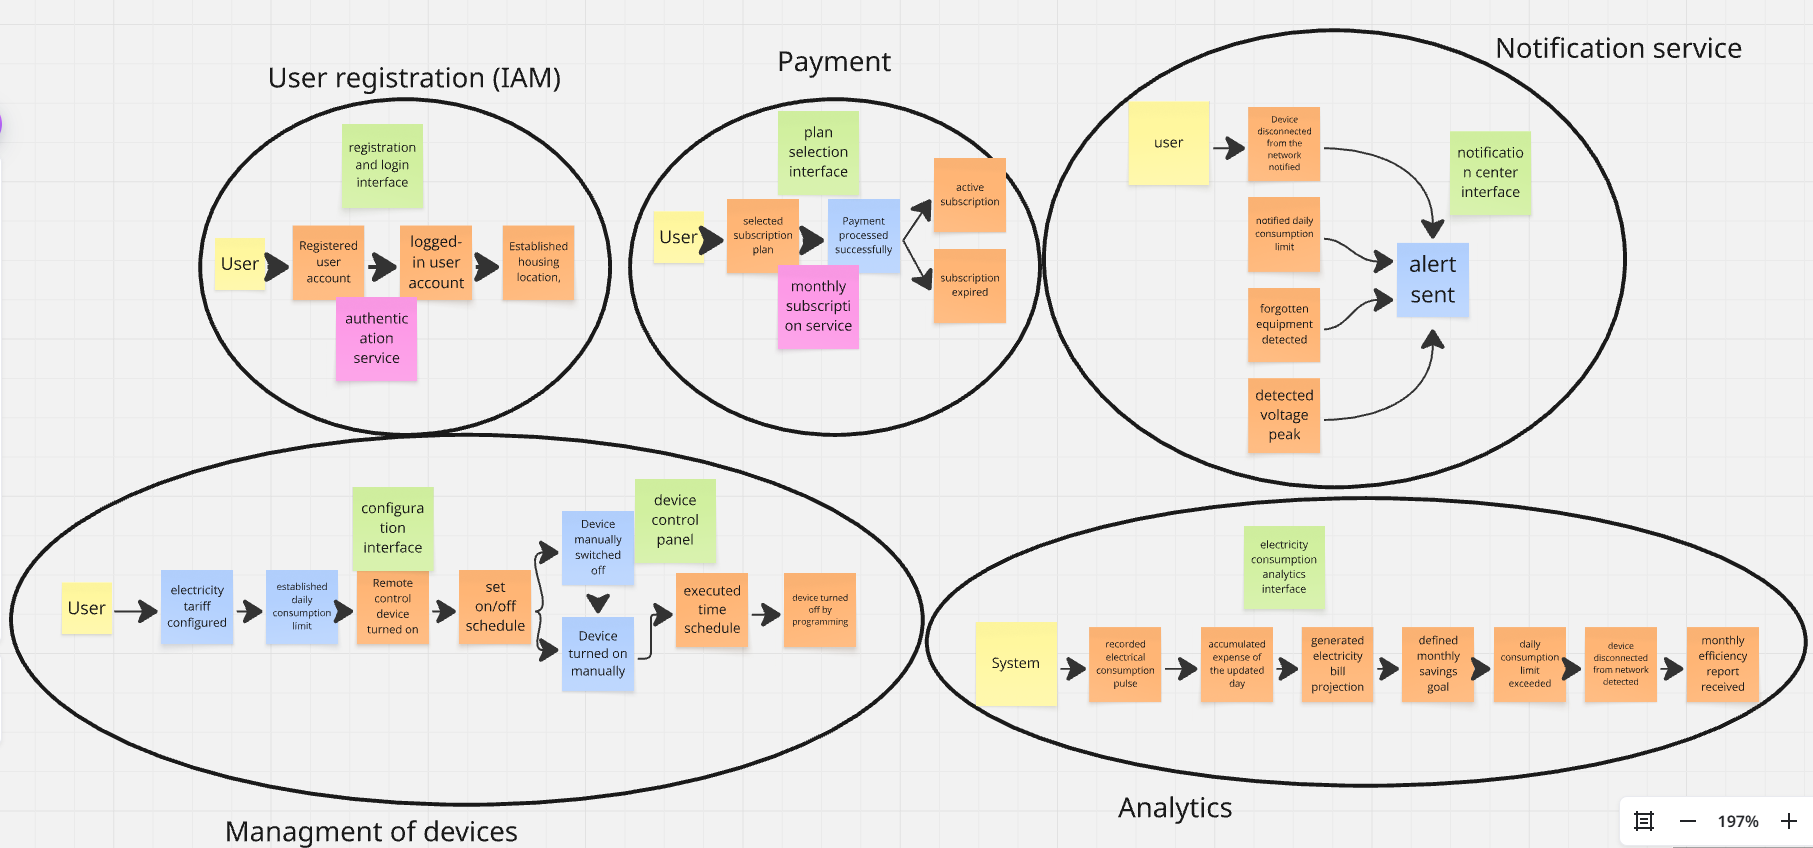
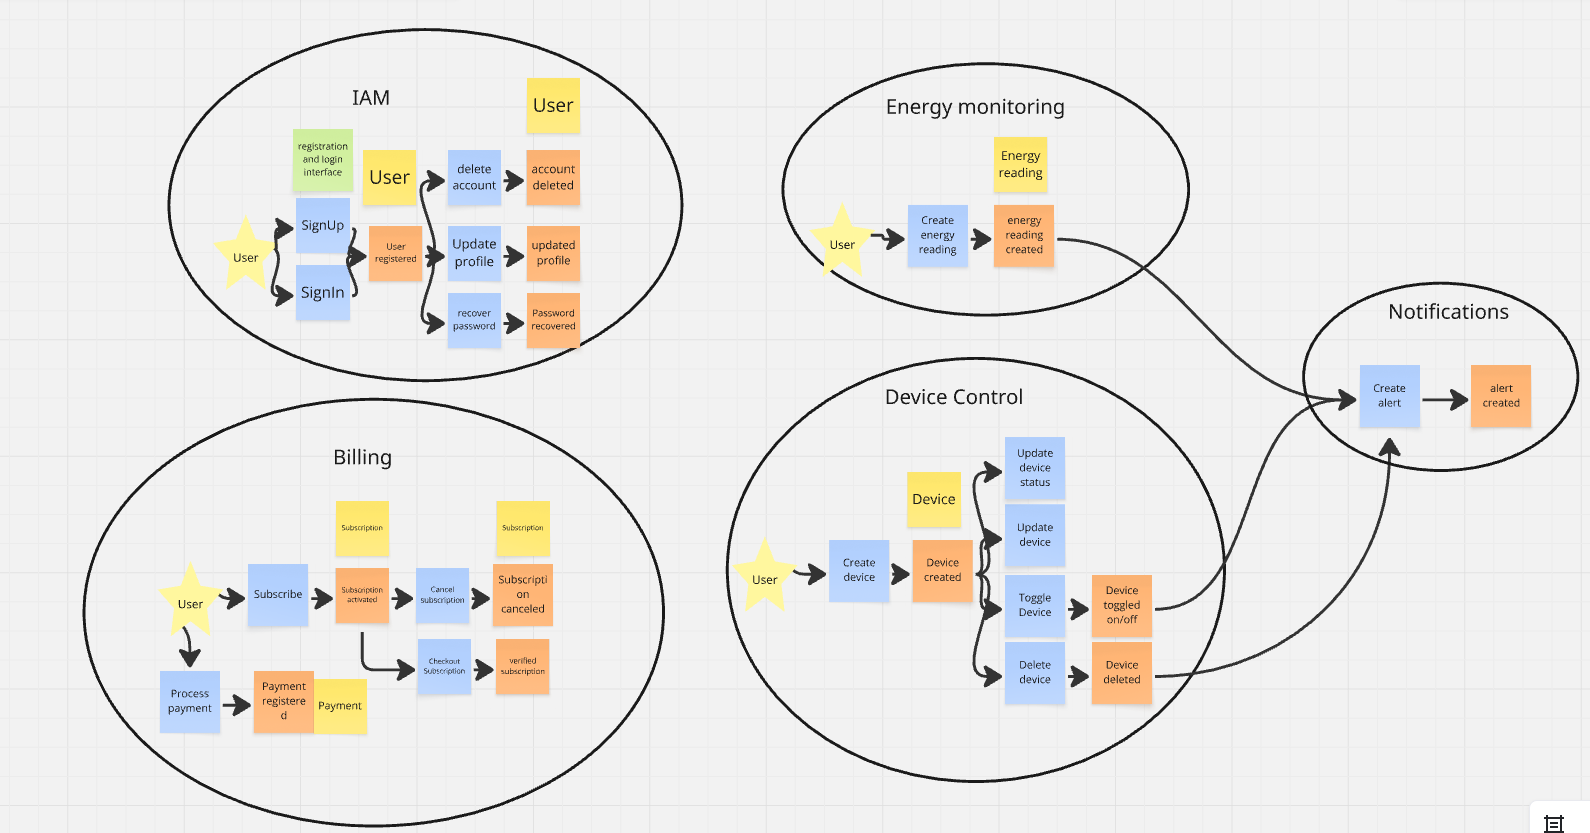
Update event storming images

diff --git a/README.md b/README.md
@@ -1346,6 +1346,26 @@ User goal(Segmento 2): Mantener un cierre ordenado y seguro del local.<br><br>
 
 <img src="assets/designLevelEventStorming.png">
 
+#### Bounded context Billing
+
+<img src="assets/designLevelEventStorming-Billing.png">
+
+#### Bounded context IAM
+
+<img src="assets/designLevelEventStorming-IAM.png">
+
+#### Bounded context Notifications
+
+<img src="assets/designLevelEventStorming-Notifications.png">
+
+#### Bounded context Device Control
+
+<img src="assets/designLevelEventStorming-DeviceControl.png">
+
+#### Bounded context Energy Monitoring
+
+<img src="assets/designLevelEventStorming-EnergyMonitoring.png">
+
 ### 4.6.2. Software Architecture Context Diagram
 En esta sección se presenta el Diagrama de Contexto (Context Level Diagram) correspondiente al Nivel 1 del Modelo C4 para la arquitectura de ElectroCorp. Este diagrama ilustra el panorama general del ecosistema, posicionando al sistema propuesto en el centro para demostrar cómo interactúa directamente con los usuarios finales y los sistemas de software de terceros que complementan su funcionalidad.
 